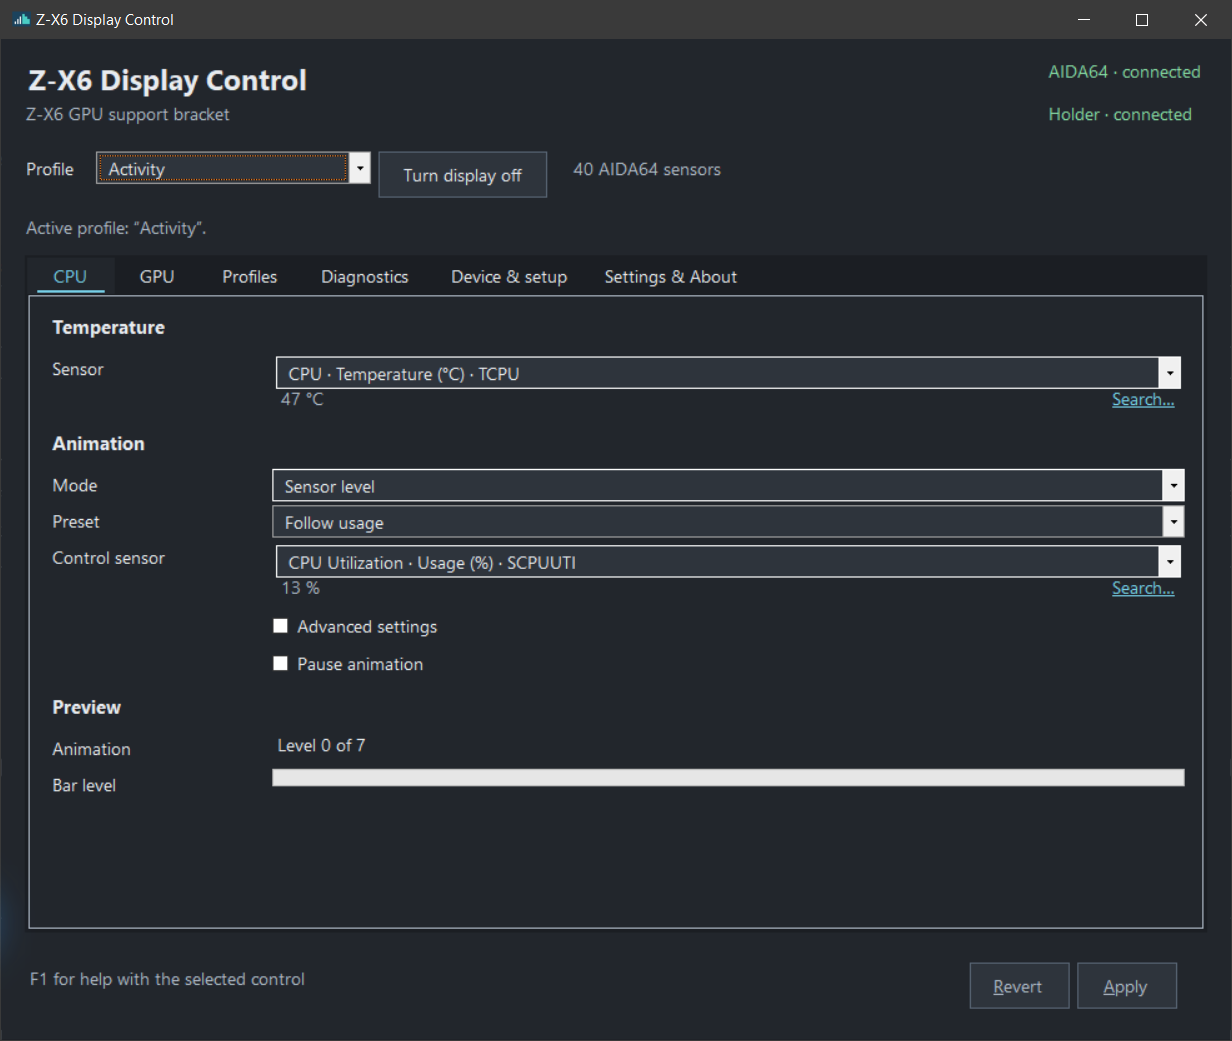
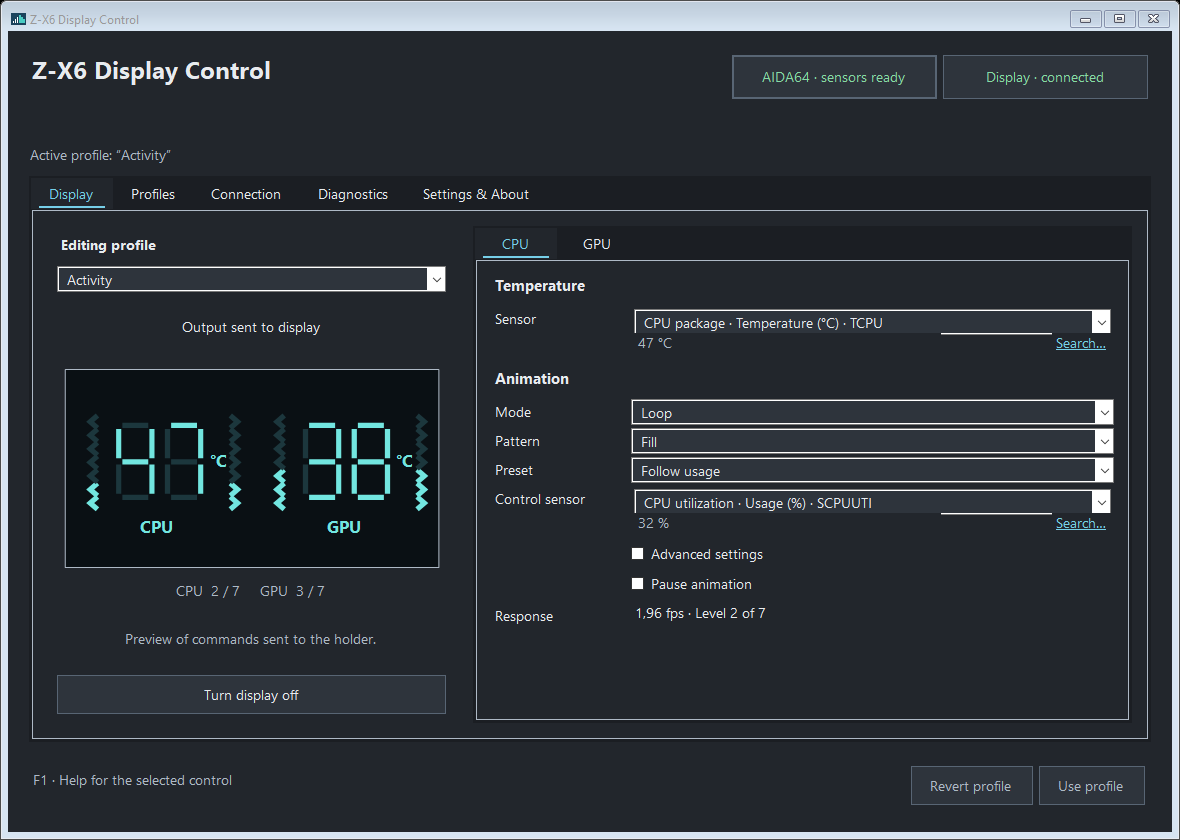
Document protected profiles and the display workflow

diff --git a/README.md b/README.md
@@ -14,7 +14,8 @@ keep the display running from the Windows tray.
 - **Bar animations:** fill, empty, bounce or random, with fixed speed or speed
   that follows a sensor reading.
 - **Bar levels:** show a sensor value as a level, or hold a fixed level.
-- **Profiles:** use the included presets, create your own and import or export them.
+- **Profiles:** start from protected built-in presets, save personal copies and import or export them.
+- **Display preview:** see both temperature readouts and animated levels together, with pending edits clearly marked.
 - **Daily operation:** turn the display on or off, use tray controls, choose
   light, dark or system appearance, and optionally start with Windows.
 
@@ -31,7 +32,7 @@ You need:
 - Windows with .NET Framework 4.7.2 or later.
 - AIDA64 installed and running, with shared memory enabled.
 
-This beta supports **one Z-X6 at a time**. If multiple matching displays are
+The app supports **one Z-X6 at a time**. If multiple matching displays are
 detected, updates stop until only one remains.
 
 The app controls the two temperature readouts and their bars. It has no controls
@@ -49,7 +50,8 @@ models and firmware variants have not been verified.
 3. Disable **LCD > Turing** in AIDA64 and close the original GPU LCD software
    so this app can use the holder's serial port.
 4. Run `ZX6DisplayControl.exe`, choose a profile or configure each side, then
-   select **Apply**. Administrator rights are not required.
+   select **Use profile**. Editing a built-in profile changes the action to
+   **Save as new profile**. Administrator rights are not required.
 
 The default temperature sources are `TCPU` and `TGPU1`. If they are unavailable,
 choose the appropriate exported sensors in the app. For animations that follow
@@ -60,11 +62,13 @@ profiles and tray behavior. Hover over a control or press **F1** for help in the
 
 ## 📸 Screenshots
 
-**CPU controls:** temperature selection and a bar driven by CPU usage.
+Current source interface, shown with sample readings. The published beta may differ.
 
-![CPU controls with temperature and usage sensor selection](docs/screenshots/cpu-settings.png)
+**Display:** both readouts and animations beside the CPU/GPU controls.
 
-**Profiles:** saved configurations with separate CPU and GPU settings.
+![Display preview beside temperature and animation controls](docs/screenshots/cpu-settings.png)
+
+**Profiles:** protected built-ins and personal configurations with separate CPU/GPU settings.
 
 ![Profile collection and preset controls](docs/screenshots/profiles.png)
 
@@ -160,7 +164,7 @@ every device with vendor/product IDs `1A86:5722`. The interface is identified
 as Turing / UsbMonitor; matching identifiers on another product or firmware
 do not establish compatibility.
 
-This beta connects only when discovery returns exactly one matching holder.
+The app connects only when discovery returns exactly one matching holder.
 If more than one is detected, the connection is closed and updates stop until
 only one remains. Diagnostics shows the detected display and its COM port;
 there is no device-selection control.
@@ -312,9 +316,13 @@ take their candidate level directly. This prevents repeated level changes
 when a sensor hovers around a boundary.
 
 **Pause animation** holds only the bar; temperatures keep updating.
-Changing animation settings resets that engine. The UI preview has its own
-engines and uses the current editor draft, so it can show pending changes
-before those changes are applied to the holder.
+Changing animation settings resets that engine. With no pending profile edits,
+the display preview uses the worker’s published temperatures and frames. It
+represents commands sent to the holder, not physical readback: the protocol
+provides no screen-state acknowledgement. A pending draft uses separate preview
+engines and is labelled **Preview · not applied**. Off, disconnected or stopped
+states clear the readouts. The CPU/GPU controls retain ranges and timing when
+changing modes; choosing an animation preset explicitly replaces those values.
 
 ### 🗂 Profiles, drafts and persistence
 
@@ -323,19 +331,34 @@ before those changes are applied to the holder.
 `Animation` and `Paused`. App settings contain the profile collection, active
 profile name, display power, startup/tray choices and appearance.
 
-The editor keeps saved settings and a working copy. Selecting or editing
-a profile changes the draft. **Apply** validates it, saves settings and queues
-the new session configuration; **Revert** restores the saved copy.
-Collection changes such as adding, renaming, deleting, importing or restoring
-profiles also remain pending until Apply. Display power is saved and applied
-as a separate action, without applying unrelated draft edits.
+The editor holds one selected draft. **Use profile** activates an unchanged
+selection; **Save changes** saves and activates a personal profile. Editing a
+built-in offers **Save as new profile**, using an available personal name.
+Switching away from a modified draft asks Save, Discard or Cancel. No hidden
+collection of drafts is saved later. **Revert profile** returns to the saved
+active profile without discarding app preferences. Returning a value to its
+original setting clears its pending state.
 
-Profile names must be non-empty and unique without regard to case. At least
-one profile must remain. JSON import/export uses a `ProfileDocument` containing
-`SchemaVersion: 1` and `Profile`. Invalid fields or unsupported schema versions
-are rejected, and replacing an existing name requires a choice in the UI.
+The eight built-ins have stable `BuiltInId` values. Settings validation rejects
+renaming, deleting or modifying them. Library version `2` restores the canonical
+presets while migrating older libraries: previously modified built-ins become
+uniquely named personal copies, and an active customization remains active.
 
-The editable preset library starts with:
+Creating, duplicating, renaming, importing or deleting a profile saves that
+collection action immediately; it never saves unrelated editor changes.
+Deletion requires a named confirmation, with Cancel as the default. There is no
+global reset of personal profiles. Export writes the selected saved profile.
+Imported profiles become personal copies, with a unique name when one already
+exists. Profile names must be non-empty and unique without regard to case.
+JSON import/export uses `ProfileDocument` with `SchemaVersion: 1` and `Profile`.
+Invalid fields and unsupported schema versions are rejected.
+
+App preferences have separate **Save preferences** and **Revert preferences**
+actions and can be saved even when a profile draft is invalid. Display power is
+also saved and applied independently. These operations use the saved profile
+configuration, leaving the current editor draft intact.
+
+The protected preset library contains:
 
 | Preset | Default behavior |
 | --- | --- |
@@ -376,12 +399,13 @@ disposes the serial port; cleanup failures are reported.
 
 Start with Windows is opt-in. It writes this executable's full path and
 `--tray` to the current user's `Software\Microsoft\Windows\CurrentVersion\Run`
-key, without requiring administrator rights. If the app is moved, disable
-and re-enable startup from its new location. When saving startup preferences,
+key, without requiring administrator rights. Settings shows whether registration
+points to the current executable. After moving the app, **Save preferences**
+repairs registration when Start with Windows is selected. When saving preferences,
 the previous registry value is restored if settings persistence fails.
 
-Light, Dark and System appearance preview immediately; Apply saves the choice
-and Revert restores it. System follows the Windows app color preference,
+Light, Dark and System appearance preview immediately; **Save preferences** keeps
+the choice and **Revert preferences** restores it. System follows the Windows app color preference,
 checked every three seconds, while high contrast takes precedence.
 Native file pickers keep Windows styling. The interface uses DPI scaling
 and F1/hover help for its controls.
@@ -389,7 +413,7 @@ and F1/hover help for its controls.
 ### 🩺 Diagnostics and local data
 
 The app makes no network requests. Diagnostics exposes the exported sensor
-catalog, selected device, connection states, receipt time and counters:
+catalog, detected display, connection states, receipt time and counters:
 
 - **Valid reads:** successfully parsed sensor snapshots, even if a selected
   display-temperature value is subsequently rejected.
